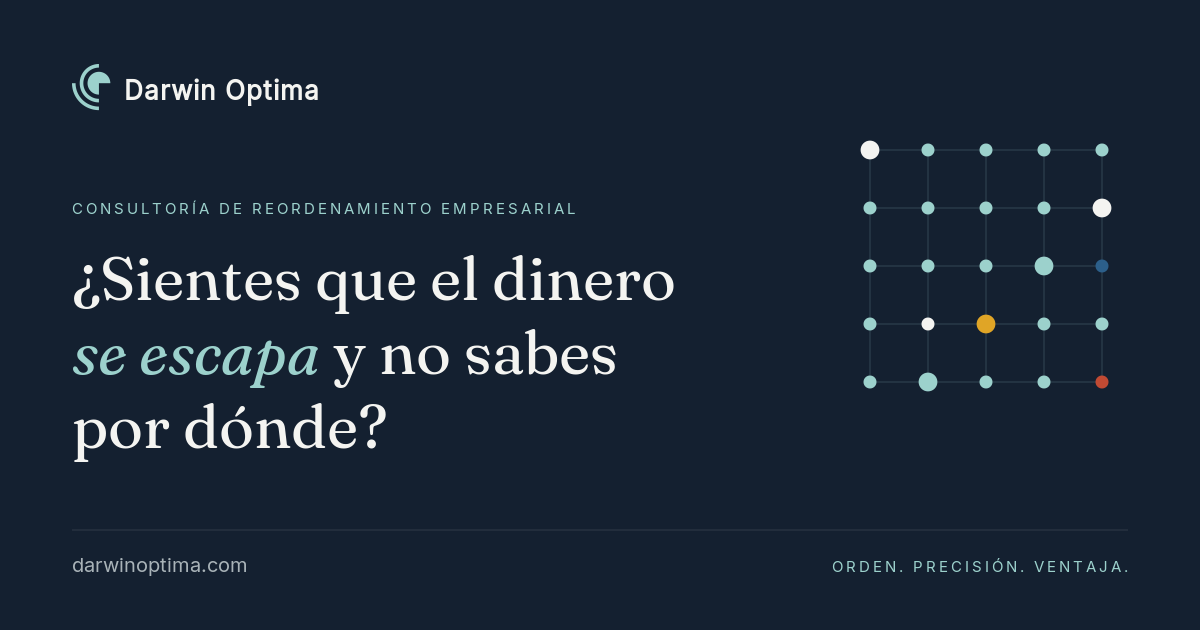
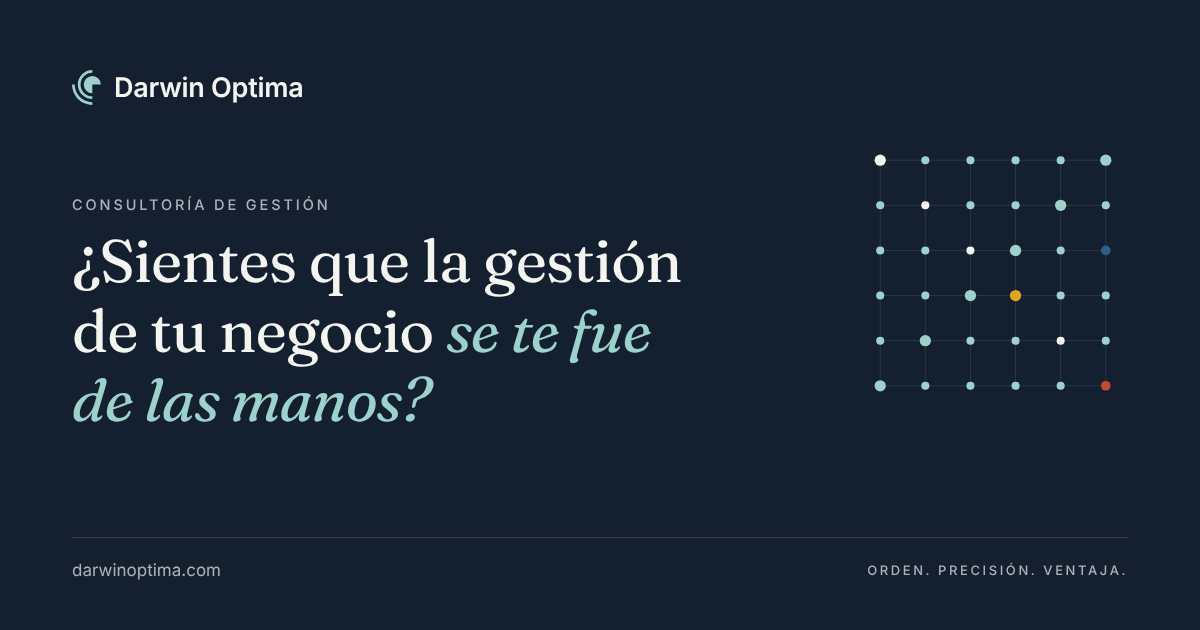
Rehace la imagen de vista previa: tenia el titular viejo incrustado
El preview de WhatsApp seguia mostrando "Sientes que el dinero se escapa
y no sabes por donde" porque esa frase esta dibujada dentro de
og-image.png, que no se tocaba desde el 21 de octubre. Las etiquetas de
texto ya estaban correctas desde el 12 de noviembre; la imagen no.

La nueva se genero con los mismos elementos del sitio: la cuadricula de
puntos del hero, el logo, Fraunces para el titular e Inter para el
resto, y los tres puntos de acento de la version original.

Se sube ?v=5 a ?v=6 en las seis paginas vivas para que los caches
pidan el archivo de nuevo.

El titulo del preview tambien decia "Consultoria de reordenamiento
empresarial": pasa a "Consultoria de gestion", igual que el titular de
LinkedIn desde el 12 de noviembre.

Claude-Session: https://claude.ai/code/session_01P3BSrSFhMoyRC7M9h7bfmG

diff --git a/index.html b/index.html
@@ -12,18 +12,18 @@
 <link rel="icon" href="/favicon.ico" sizes="any">
 <link rel="icon" href="/favicon-32x32.png" type="image/png" sizes="32x32">
 <link rel="apple-touch-icon" href="/apple-touch-icon.png">
-<meta property="og:title" content="Darwin Optima — Consultoría de reordenamiento empresarial">
+<meta property="og:title" content="Darwin Optima — Consultoría de gestión">
 <meta property="og:description" content="¿Sientes que la gestión de tu negocio se te fue de las manos? Ayudo a dueños de negocio a ordenar su empresa y hacerla crecer, con método y números reales.">
 <meta property="og:url" content="https://darwinoptima.com/">
 <meta property="og:type" content="website">
-<meta property="og:image" content="https://darwinoptima.com/og-image.png?v=5">
+<meta property="og:image" content="https://darwinoptima.com/og-image.png?v=6">
 <meta property="og:image:width" content="1200">
 <meta property="og:image:height" content="630">
 <meta property="og:locale" content="es_PE">
 <meta name="twitter:card" content="summary_large_image">
-<meta name="twitter:title" content="Darwin Optima — Consultoría de reordenamiento empresarial">
+<meta name="twitter:title" content="Darwin Optima — Consultoría de gestión">
 <meta name="twitter:description" content="¿Sientes que la gestión de tu negocio se te fue de las manos? Ayudo a dueños de negocio a ordenar su empresa y hacerla crecer, con método y números reales.">
-<meta name="twitter:image" content="https://darwinoptima.com/og-image.png?v=5">
+<meta name="twitter:image" content="https://darwinoptima.com/og-image.png?v=6">
 <link rel="preconnect" href="https://fonts.googleapis.com">
 <link rel="preconnect" href="https://fonts.gstatic.com" crossorigin>
 <script defer src="https://cloud.umami.is/script.js" data-website-id="bc75c5bc-3029-422b-8dd5-ed09fa501e9f"></script>

diff --git a/productos.html b/productos.html
@@ -10,14 +10,14 @@
 <meta property="og:description" content="Software que construyo en Darwin Optima para poner orden en negocios: agenda de clientes, caja y deuda, facturación por horas y gestión de tareas.">
 <meta property="og:url" content="https://darwinoptima.com/productos">
 <meta property="og:type" content="website">
-<meta property="og:image" content="https://darwinoptima.com/og-image.png?v=5">
+<meta property="og:image" content="https://darwinoptima.com/og-image.png?v=6">
 <meta property="og:image:width" content="1200">
 <meta property="og:image:height" content="630">
 <meta property="og:locale" content="es_PE">
 <meta name="twitter:card" content="summary_large_image">
 <meta name="twitter:title" content="Soluciones | Darwin Optima">
 <meta name="twitter:description" content="Software que construyo en Darwin Optima para poner orden en negocios: agenda de clientes, caja y deuda, facturación por horas y gestión de tareas.">
-<meta name="twitter:image" content="https://darwinoptima.com/og-image.png?v=5">
+<meta name="twitter:image" content="https://darwinoptima.com/og-image.png?v=6">
 <link rel="icon" href="/favicon.ico" sizes="any">
 <link rel="apple-touch-icon" href="/apple-touch-icon.png">
 <link rel="preconnect" href="https://fonts.googleapis.com">

diff --git a/capitaloptima.html b/capitaloptima.html
@@ -7,7 +7,7 @@
 <meta name="description" content="CapitalOptima te muestra la caja real de tu empresa en todas sus cuentas, proyecta los próximos meses con lo que ya tienes comprometido y te dice la salud financiera real del negocio, para decidir hoy y no a fin de mes.">
 <meta property="og:title" content="CapitalOptima — Tu caja hoy y en los próximos meses">
 <meta property="og:description" content="CapitalOptima te muestra la caja real de tu empresa en todas sus cuentas, proyecta los próximos meses con lo que ya tienes comprometido y te dice la salud financiera real del negocio, para decidir hoy y no a fin de mes.">
-<meta property="og:image" content="https://darwinoptima.com/og-image.png?v=5">
+<meta property="og:image" content="https://darwinoptima.com/og-image.png?v=6">
 <link rel="icon" href="/favicon-32x32.png" type="image/png" sizes="32x32">
 <link rel="preconnect" href="https://fonts.googleapis.com">
 <link href="https://fonts.googleapis.com/css2?family=Fraunces:ital,opsz,wght@0,9..144,300..500;1,9..144,400&family=Inter:wght@400;500;600&display=swap" rel="stylesheet">

diff --git a/quadrant.html b/quadrant.html
@@ -7,7 +7,7 @@
 <meta name="description" content="Quadrant es el asistente de pendientes de Darwin Optima: recibe tus tareas por Telegram, WhatsApp, correo o audio, las prioriza solas, arma el plan, redacta los mensajes y hace el seguimiento. Tú solo apruebas.">
 <meta property="og:title" content="Quadrant — Tus pendientes no se olvidan: se resuelven">
 <meta property="og:description" content="Le cuentas qué hay que hacer. Quadrant lo ordena, arma el plan, redacta los mensajes y hace el seguimiento. Tú solo apruebas.">
-<meta property="og:image" content="https://darwinoptima.com/og-image.png?v=5">
+<meta property="og:image" content="https://darwinoptima.com/og-image.png?v=6">
 <link rel="icon" href="/favicon-32x32.png" type="image/png" sizes="32x32">
 <link rel="preconnect" href="https://fonts.googleapis.com">
 <link href="https://fonts.googleapis.com/css2?family=Fraunces:ital,opsz,wght@0,9..144,300..500;1,9..144,400&family=Inter:wght@400;500;600&family=Instrument+Sans:wght@400;500;600&family=Instrument+Serif&display=swap" rel="stylesheet">

diff --git a/tarifa-justa.html b/tarifa-justa.html
@@ -7,7 +7,7 @@
 <meta name="description" content="Tarifa Justa es tu facturación por horas sin el caos de fin de mes: registras en una frase, ves tus horas contra el límite de cada cliente y cierras la factura en PDF con un clic.">
 <meta property="og:title" content="Tarifa Justa — Lo que trabajas es lo que cobras">
 <meta property="og:description" content="Tarifa Justa es tu facturación por horas sin el caos de fin de mes: registras en una frase, ves tus horas contra el límite de cada cliente y cierras la factura en PDF con un clic.">
-<meta property="og:image" content="https://darwinoptima.com/og-image.png?v=5">
+<meta property="og:image" content="https://darwinoptima.com/og-image.png?v=6">
 <link rel="icon" href="/favicon-32x32.png" type="image/png" sizes="32x32">
 <link rel="preconnect" href="https://fonts.googleapis.com">
 <link href="https://fonts.googleapis.com/css2?family=Fraunces:ital,opsz,wght@0,9..144,300..500;1,9..144,400&family=Inter:wght@400;500;600&display=swap" rel="stylesheet">

diff --git a/acs.html b/acs.html
@@ -7,7 +7,7 @@
 <meta name="description" content="ACS le da a cada cliente su propio portal para agendar, reagendar o cancelar solo y ver su progreso sesión a sesión. Tú atiendes; la agenda y el seguimiento se ordenan solos.">
 <meta property="og:title" content="ACS — Agenda, Clientes y Seguimiento">
 <meta property="og:description" content="ACS le da a cada cliente su propio portal para agendar, reagendar o cancelar solo y ver su progreso sesión a sesión. Tú atiendes; la agenda y el seguimiento se ordenan solos.">
-<meta property="og:image" content="https://darwinoptima.com/og-image.png?v=5">
+<meta property="og:image" content="https://darwinoptima.com/og-image.png?v=6">
 <link rel="icon" href="/favicon-32x32.png" type="image/png" sizes="32x32">
 <link rel="preconnect" href="https://fonts.googleapis.com">
 <link href="https://fonts.googleapis.com/css2?family=Fraunces:ital,opsz,wght@0,9..144,300..500;1,9..144,400&family=Inter:wght@400;500;600&display=swap" rel="stylesheet">
